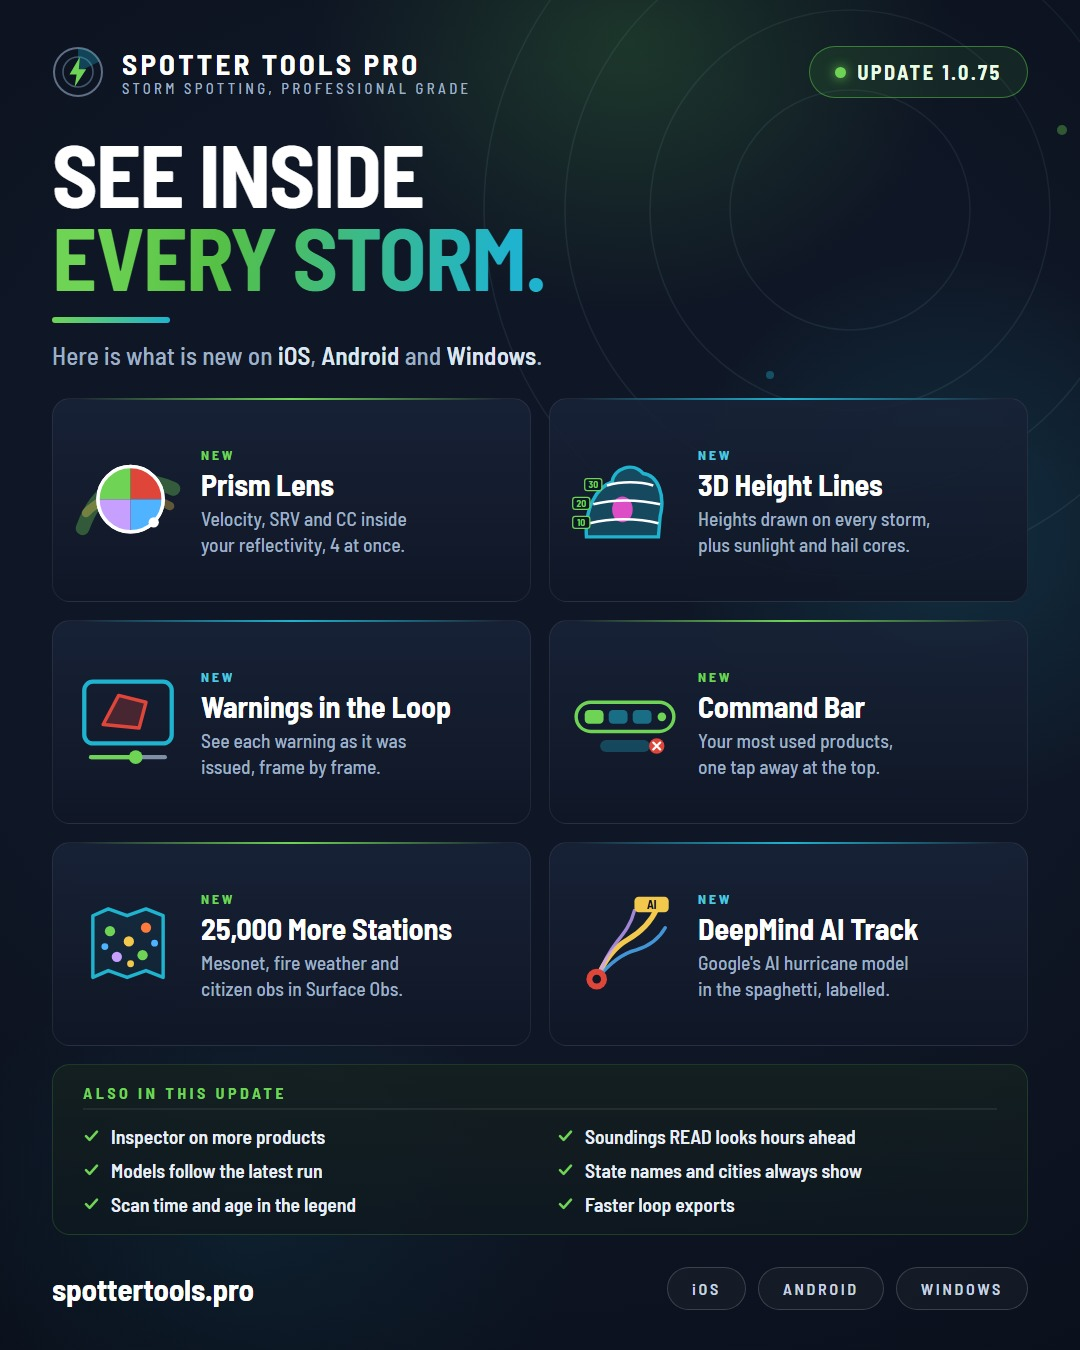
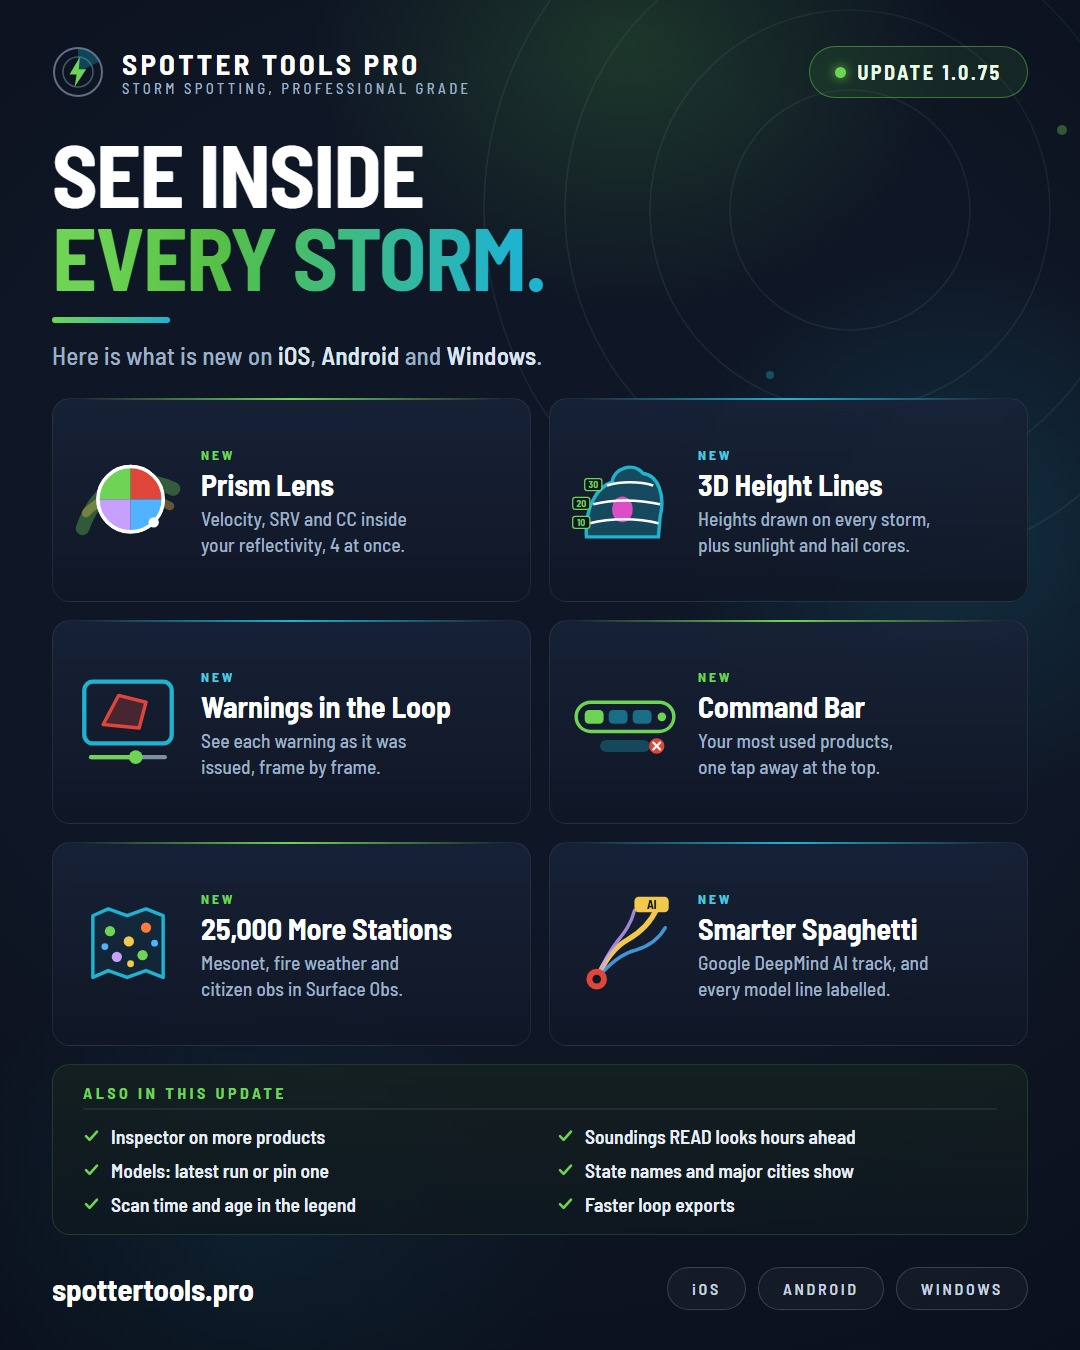
whats-new 1.0.75: model line labels, Windows fixes, graphic

Changed region(s): [[0.6417, 0.6844, 0.8556, 0.7467], [0.1528, 0.84, 0.3056, 0.8711], [0.6722, 0.84, 0.7944, 0.8711]]

diff --git a/src/content/whats-new/1.0.75.md b/src/content/whats-new/1.0.75.md
@@ -60,10 +60,10 @@ A circle you drag over a storm that shows a different radar product inside it, s
 - **New readings:** wind gust and relative humidity. Tap a station for its network, elevation, humidity and precipitation.
 - **Zoomed out, it stays tidy** with the same density as before; more stations fill in as you zoom.
 
-## Tropical
+## Tropical: a smarter spaghetti plot
 
-- **Google DeepMind's AI hurricane model** now draws in the model spaghetti as its own yellow track.
-- **Every model track is labelled** with its name in its own colour (NHC, GFS, ECMWF, HAFS-A, Google AI and more), above the NHC track.
+- **Google DeepMind's AI hurricane model** now draws in the model spaghetti as its own yellow track, labelled **Google AI**.
+- **Every model line is labelled.** Each model's track carries its name along the line in its own colour (NHC, GFS, ECMWF, HAFS-A, Google AI and more), so you can tell which model is which without the legend. Ensemble members stay unlabelled to keep it readable.
 - **Fixed:** a broken outlook area near the date line that painted a yellow band across the Pacific.
 
 ## Soundings: a smarter READ
@@ -95,6 +95,8 @@ A circle you drag over a storm that shows a different radar product inside it, s
 - **A smooth radar beam.** The sweep line could stall at 2 frames a second; it now runs at your screen's refresh rate.
 - **Much lighter loops with warnings on.** Loops that played with nationwide advisories showing used a lot of CPU and memory; now they use about a third of the CPU and a fraction of the memory.
 - **Switching radars stops the loop** instead of playing the old site's tracks over a blank map.
+- **Storm cell cards fill in the hail estimate** on their own instead of needing to be reopened.
+- **Product panels stop short of the map's zoom buttons** instead of covering them.
 
 ## Fixes and polish
 
